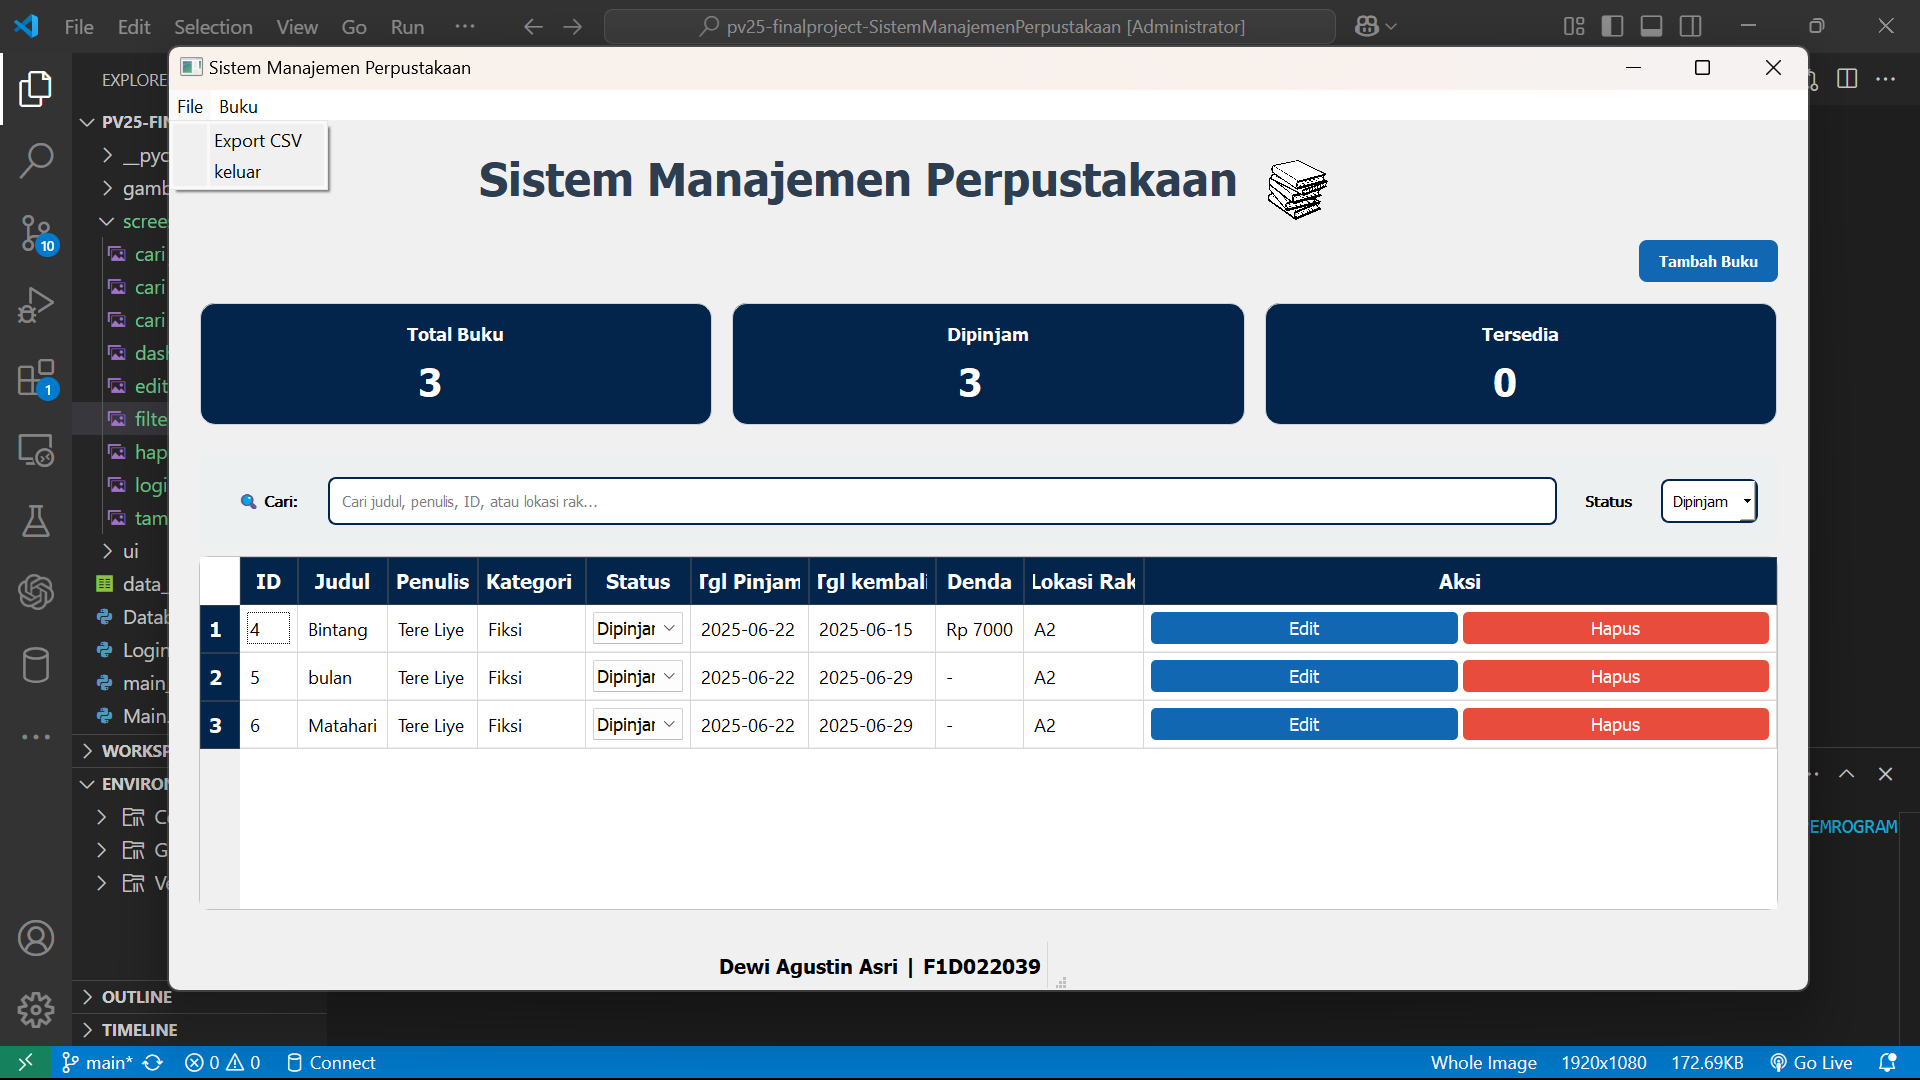
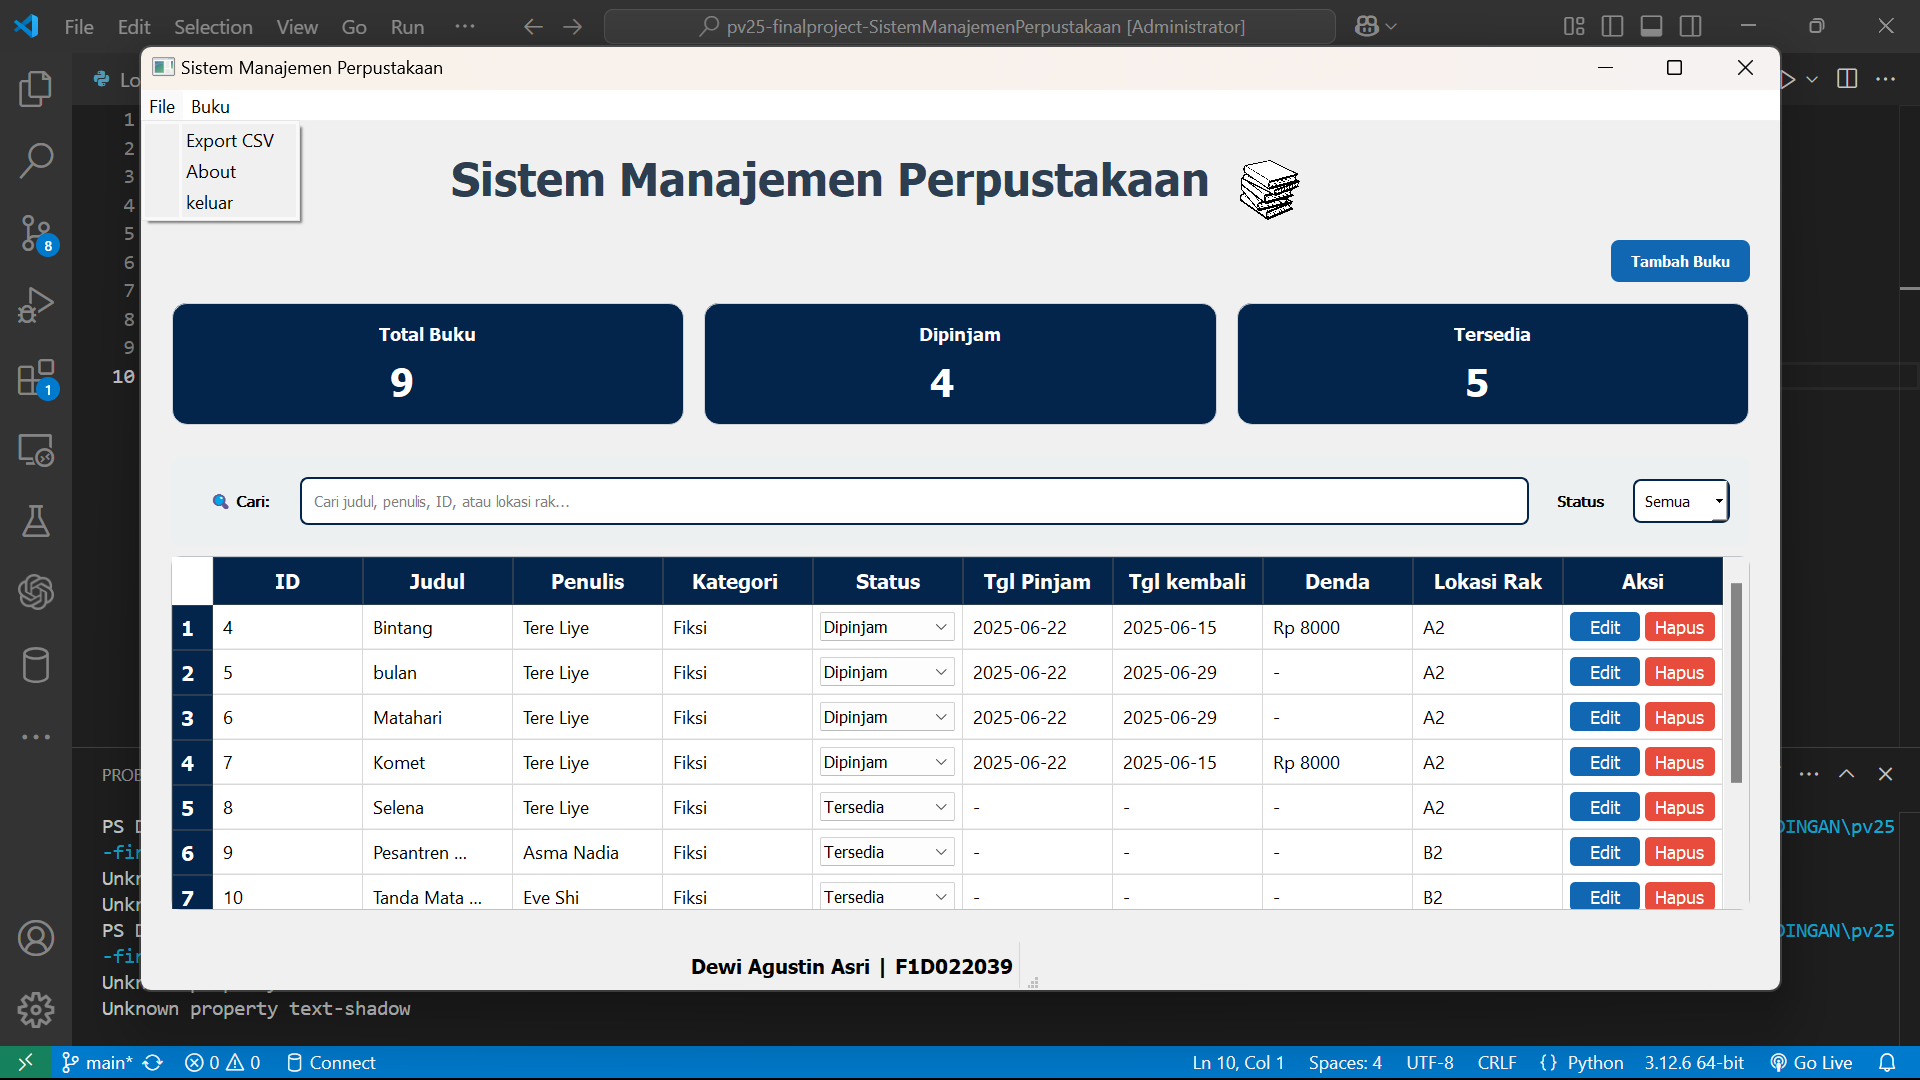
final

diff --git a/Dashboard.py b/Dashboard.py
@@ -11,29 +11,14 @@ from PyQt5.uic import loadUi
 from PyQt5.QtGui import QPixmap
 from Tambah_Buku import BookFormDialog
 from Database_manager import DatabaseManager
+from About import AboutDialog
 
-class AboutDialog(QDialog):
-    def __init__(self, parent=None):
-        super().__init__(parent)
-        loadUi("ui/menu_about.ui",self)
-        self.setWindowTitle("Tentang Aplikasi")
-        self.setStyleSheet("""
-                           #buttonBox QPushButton {
-                                background-color: #1167b1;
-                                color: white;
-                                padding: 6px 12px;
-                                border-radius: 4px;
-                            }
 
-                            #buttonBox QPushButton:hover {
-                                background-color: #0e5492;
-                            }
-        """)
     
 class Perpustakaan(QMainWindow):
     def __init__(self, db_manager, parent=None):
         super().__init__(parent)
-        loadUi("ui/main_window.ui", self) 
+        loadUi("ui/dashboard.ui", self) 
         self.setWindowTitle("Sistem Manajemen Perpustakaan")
         self.db_manager=db_manager
         self.db=self.db_manager.conn
@@ -203,17 +188,7 @@ class Perpustakaan(QMainWindow):
                 self.ubah_status_dropdown(b_id, j_buku, old_stat, cb.currentText(), cb)
             )
             self.table.setCellWidget(row, 4, status_combo_box) 
-            denda = "-"
-            if row_data[4] == "Dipinjam" and row_data[6]: 
-                try:
-                    tgl_kembali_str = row_data[6]
-                    if tgl_kembali_str: 
-                        tgl_kembali = datetime.strptime(tgl_kembali_str, "%Y-%m-%d")
-                        selisih = (datetime.now() - tgl_kembali).days
-                        if selisih > 0: 
-                            denda = f"Rp {selisih * 1000}" 
-                except ValueError:
-                    denda = "Tanggal invalid" 
+            denda = self.hitung_denda(row_data[4], row_data[6])
             item_denda = QTableWidgetItem(denda)
             item_denda.setFlags(item_denda.flags() | Qt.TextWordWrap)
             self.table.setItem(row, 7, item_denda)
@@ -249,11 +224,20 @@ class Perpustakaan(QMainWindow):
         self.card_total_buku.findChild(QLabel, "total_buku_val").setText(str(total_buku))
         self.card_dipinjam.findChild(QLabel, "dipinjam_val").setText(str(total_dipinjam))
         self.card_tersedia.findChild(QLabel, "tersedia_val").setText(str(total_tersedia))
-
-        #self.table.resizeColumnsToContents() 
-        #self.table.resizeRowsToContents() 
+        
         self.table.horizontalHeader().setSectionResizeMode(QHeaderView.Interactive)
         self.table.horizontalHeader().setSectionResizeMode(self.table.columnCount() - 1, QHeaderView.Stretch)
+        
+    def hitung_denda(self,status, tanggal_kembali):
+        if status == "Dipinjam" and tanggal_kembali:
+            try:
+                tgl_kembali = datetime.strptime(tanggal_kembali, "%Y-%m-%d")
+                selisih = (datetime.now() - tgl_kembali).days
+                if selisih > 0:
+                    return f"Rp {selisih * 1000}"
+            except ValueError:
+                return "Tanggal invalid"
+        return "-"
 
     def ubah_status_buku_via_menu(self):
         selected_rows = self.table.selectedItems()
@@ -355,18 +339,7 @@ class Perpustakaan(QMainWindow):
                     writer.writerow(["ID", "Judul", "Penulis", "Kategori", "Status", "Tgl Pinjam", "Tgl Kembali", "Denda (Saat Export)", "Lokasi Rak"])
                     
                     for row_data in data:
-                        denda = "-"
-                        if row_data[4] == "Dipinjam" and row_data[6]:
-                            try:
-                                tgl_kembali_str = row_data[6]
-                                if tgl_kembali_str:
-                                    tgl_kembali = datetime.strptime(tgl_kembali_str, "%Y-%m-%d")
-                                    selisih = (datetime.now() - tgl_kembali).days
-                                    if selisih > 0:
-                                        denda = f"Rp {selisih * 1000}"
-                            except ValueError:
-                                denda = "Tanggal invalid"
-                    
+                        denda = self.hitung_denda(row_data[4], row_data[6])
                         row_to_write = list(row_data[:7]) + [denda, row_data[7]]
                         writer.writerow(row_to_write)
 

diff --git a/About.py b/About.py
@@ -1,0 +1,20 @@
+from PyQt5.uic import loadUi
+from PyQt5.QtWidgets import QDialog
+
+class AboutDialog(QDialog):
+    def __init__(self, parent=None):
+        super().__init__(parent)
+        loadUi("ui/menu_about.ui",self)
+        self.setWindowTitle("Tentang Aplikasi")
+        self.setStyleSheet("""
+                           #buttonBox QPushButton {
+                                background-color: #1167b1;
+                                color: white;
+                                padding: 6px 12px;
+                                border-radius: 4px;
+                            }
+
+                            #buttonBox QPushButton:hover {
+                                background-color: #0e5492;
+                            }
+        """)

diff --git a/Database_manager.py b/Database_manager.py
@@ -30,11 +30,6 @@ class DatabaseManager:
                 lokasi_rak TEXT
             )
         ''')
-        try:
-            cursor.execute("ALTER TABLE buku ADD COLUMN lokasi_rak TEXT")
-            self.conn.commit()
-        except sqlite3.OperationalError:
-            pass 
         self.conn.commit()
 
     def add_book(self, judul, penulis, kategori, lokasi_rak):

diff --git a/Login.py b/Login.py
@@ -1,7 +1,7 @@
 from PyQt5.QtWidgets import QWidget, QMessageBox
 from PyQt5.QtGui import QPixmap
 from PyQt5.uic import loadUi
-from main_window_app import Perpustakaan
+from Dashboard import Perpustakaan
 from Database_manager import DatabaseManager
 
 
